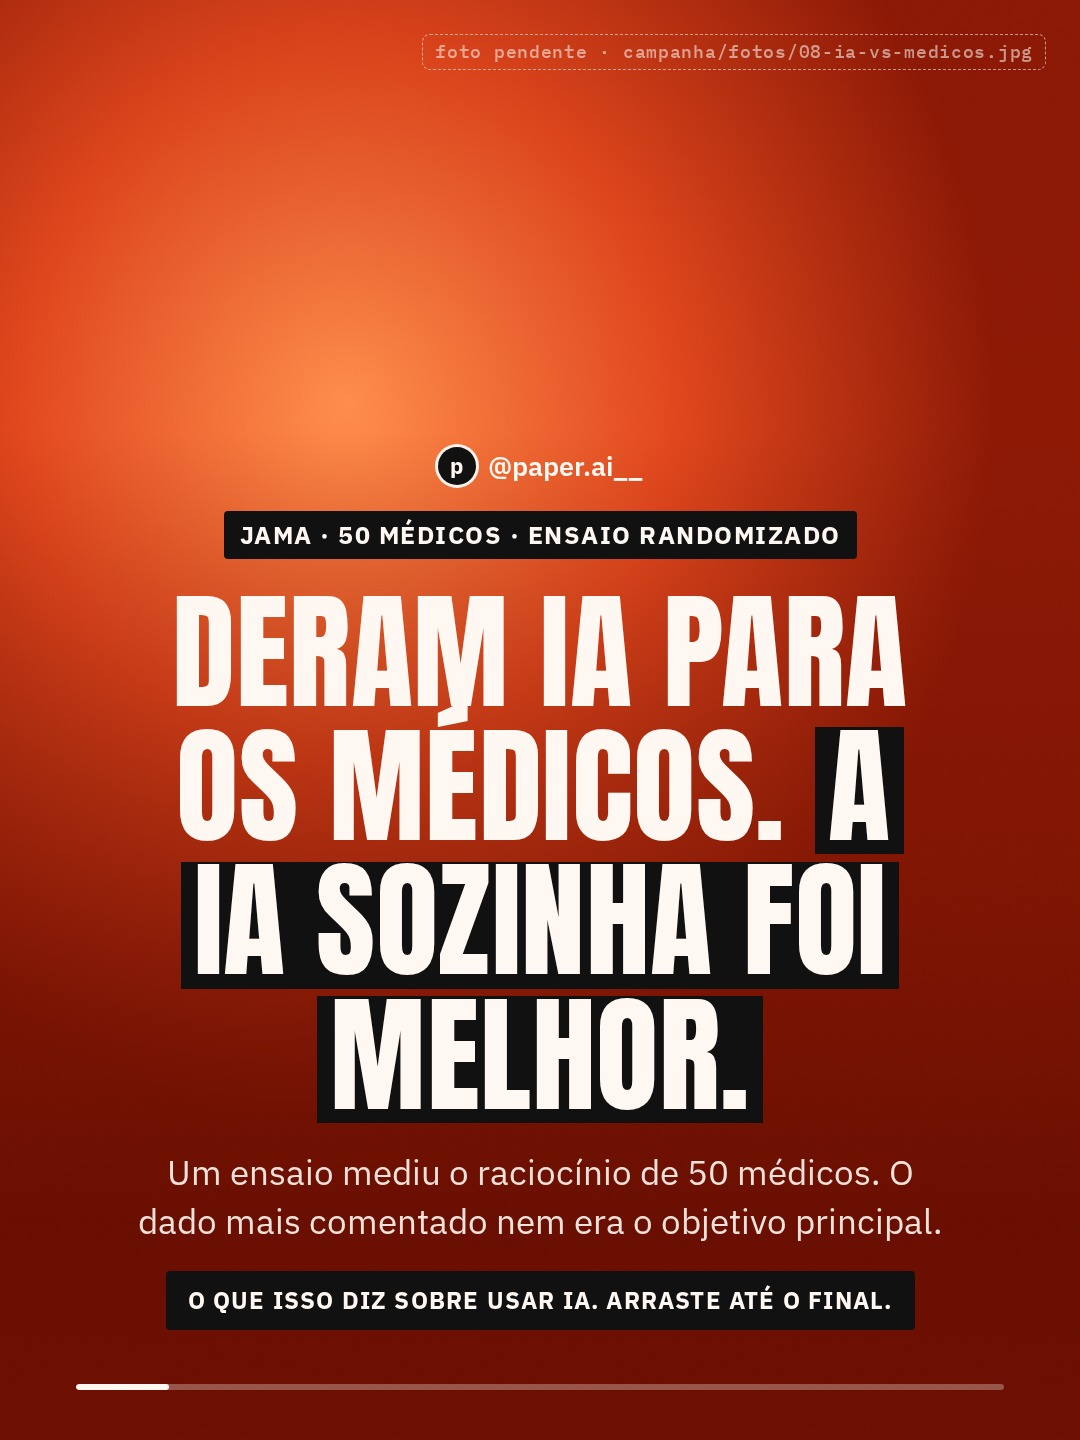
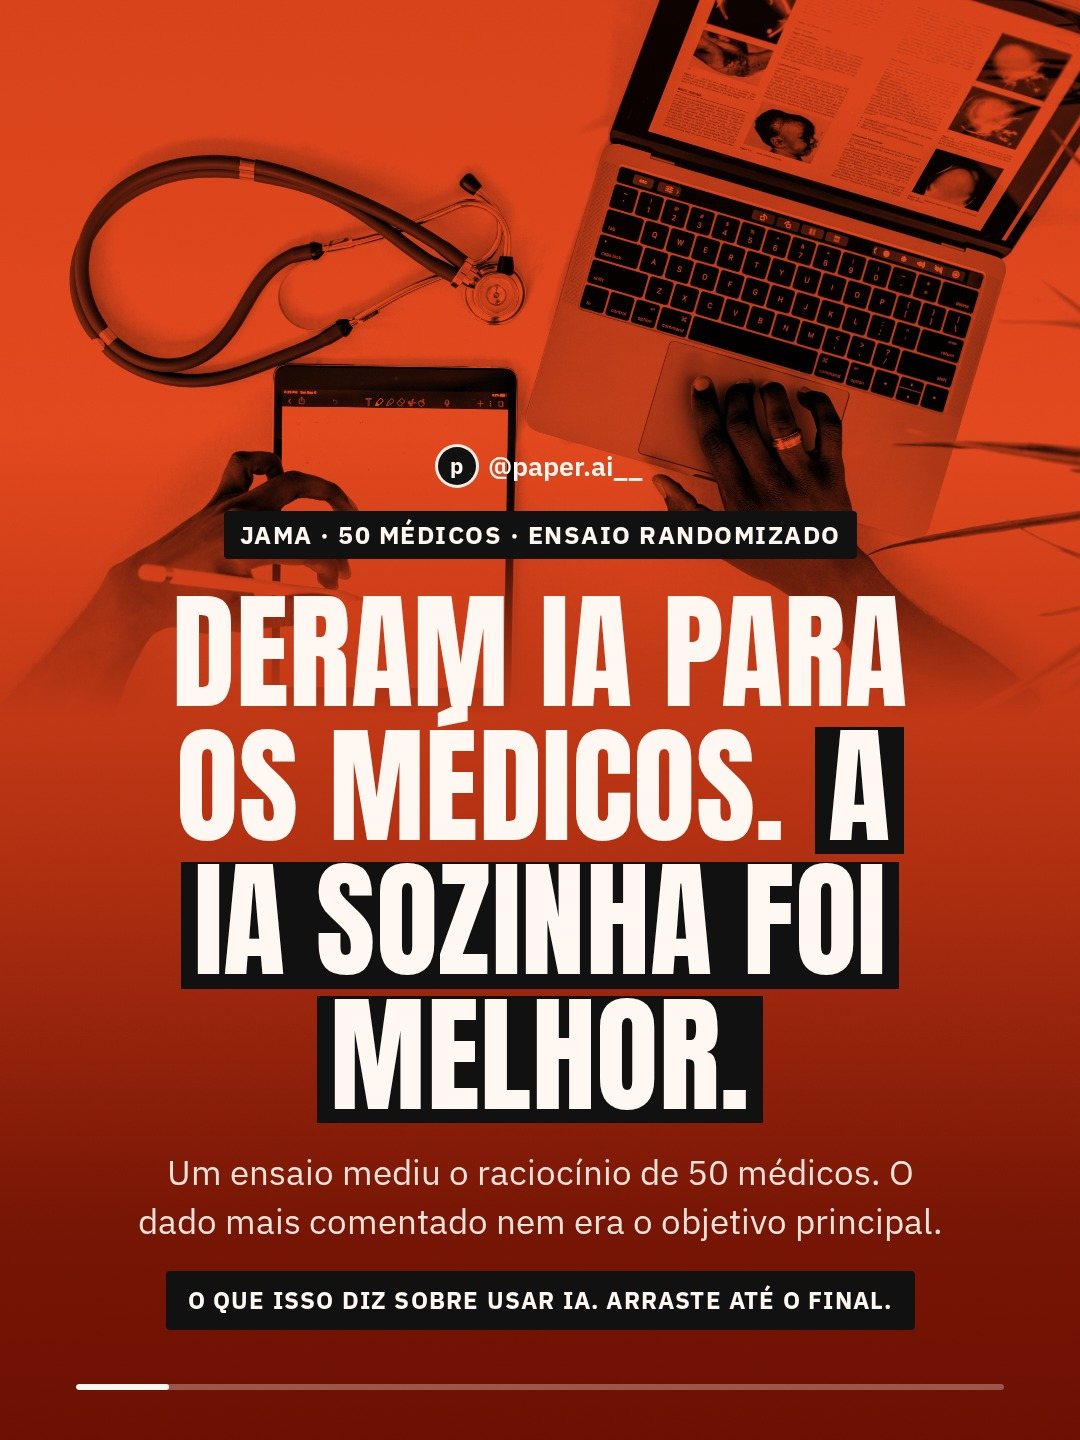
Foto na capa do 08 (IA contra médicos): campanha completa
Claude-Session: https://claude.ai/code/session_01G1NFw6D6tMQ9uSb7ZFrUDh

diff --git a/campanha/fotos/LISTA.md b/campanha/fotos/LISTA.md
@@ -16,7 +16,7 @@ Use fotos com licença para uso comercial (Unsplash, Pexels, banco de imagens pa
 | `06-dez-mil-passos.jpg` | claro | white sneakers pale concrete morning shadow, minimal walking feet light street, sneakers white floor long shadow | Tênis claros num chão de cimento ou piso branco, sombra comprida de manhã. Pouca cor, muito espaço vazio. | ✅ ok |
 | `07-bets.jpg` | escuro | slot machines dark casino empty chairs | Caça-níqueis acesos num cassino escuro, cadeiras vazias na frente. A mesma foto aparece desfocada no slide 6. | ✅ ok |
 | `07-bets-2.jpg` | escuro | slot machines dark casino (a mesma foto da capa) | A foto da capa, aproximada nas luzes do alto e desfocada. Pode ser o mesmo arquivo. | ✅ ok |
-| `08-ia-vs-medicos.jpg` | vibrante | doctor hands laptop night, stethoscope keyboard dramatic light, physician desk screen glow | Mãos de médico (jaleco ou estetoscópio à vista) sobre um notebook, luz da tela. Sem rosto e sem marca de software. | ⏳ pendente |
+| `08-ia-vs-medicos.jpg` | vibrante | doctor hands laptop night, stethoscope keyboard dramatic light, physician desk screen glow | Mãos de médico (jaleco ou estetoscópio à vista) sobre um notebook, luz da tela. Sem rosto e sem marca de software. | ✅ ok |
 | `09-genes-vs-estilo-de-vida.jpg` | claro | old family photos hands pale table, vintage family portrait light linen, hands holding old photograph soft light | Mãos segurando fotos antigas de família sobre uma mesa clara, luz natural. Tons pálidos, rostos das fotos sem nitidez. | ✅ ok |
 | `10-alcool.jpg` | escuro | red wine glass dark moody table, wine glass side light black background, half empty wine glass shadow | Taça de vinho tinto sobre mesa escura, luz lateral dura, fundo quase preto. Sem garrafa com rótulo. | ✅ ok |
 | `11-ultraprocessados.jpg` | vibrante | snacks packaging flat lay orange background, chips soda cookies overhead hard light, junk food red background | Pacotes de salgadinho, refrigerante e biscoito vistos de cima, luz dura, fundo laranja ou vermelho. Sem marca legível. | ✅ ok |

diff --git a/campanha/fotos/CREDITOS.md b/campanha/fotos/CREDITOS.md
@@ -11,6 +11,7 @@ Fotos baixadas pelo dono da página a partir da lista em [`LINKS.md`](LINKS.md).
 | `05-celular-na-escola.jpg` | [Pexels 8456146](https://www.pexels.com/photo/back-view-shot-of-students-walking-on-a-hallway-while-having-a-conversation-8456146/) |
 | `06-dez-mil-passos.jpg` | [Pexels 29607484](https://www.pexels.com/photo/minimalist-footwear-and-geometric-shadows-art-29607484/) |
 | `07-bets.jpg` e `07-bets-2.jpg` | [Pexels 3021120](https://www.pexels.com/photo/slot-machines-3021120/) (a mesma foto; no slide 6 ela aparece aproximada e desfocada) |
+| `08-ia-vs-medicos.jpg` | [Pexels 5327916](https://www.pexels.com/photo/a-medical-person-using-a-laptop-for-research-5327916/) |
 | `09-genes-vs-estilo-de-vida.jpg` | [Pexels 7545238](https://www.pexels.com/photo/a-person-s-hands-holding-vintage-photographs-7545238/) |
 | `10-alcool.jpg` | [Pexels 312080](https://www.pexels.com/photo/alcohol-bar-beverage-black-background-312080/) |
 | `11-ultraprocessados.jpg` | [Pexels 479628](https://www.pexels.com/photo/potato-chips-479628/) |
@@ -25,4 +26,3 @@ Fotos baixadas pelo dono da página a partir da lista em [`LINKS.md`](LINKS.md).
 | `19-aperto-de-mao.jpg` | [Pexels 7298869](https://www.pexels.com/photo/a-clenched-fist-7298869/) |
 | `20-um-minuto.jpg` | [Unsplash Or4_-uT-S5c](https://unsplash.com/photos/a-black-and-white-photo-of-a-man-running-up-a-flight-of-stairs-Or4_-uT-S5c) |
 
-Pendente: `08-ia-vs-medicos.jpg` (a foto enviada não abriu).

diff --git a/campanha/README.md b/campanha/README.md
@@ -2,7 +2,7 @@
 
 Posts feitos para alcance e envios: gancho num assunto que o Brasil está discutindo, uma história contada slide a slide e um grande estudo científico explicando o fato, sem inventar nada. Cada carrossel termina mostrando o que o estudo **não** permite dizer, que é a mesma regra dos prompts da Biblioteca paper.ai__.
 
-**Os 20 estão prontos em [`exports/campanha/`](../exports/campanha/README.md)**, com slides em JPG (3:4), legenda e texto alternativo. Todas as capas já têm foto, menos a do 08 (IA contra médicos). Créditos em [`fotos/CREDITOS.md`](fotos/CREDITOS.md).
+**Os 20 estão prontos em [`exports/campanha/`](../exports/campanha/README.md)**, com slides em JPG (3:4), legenda e texto alternativo. Todas as capas já têm foto. Créditos em [`fotos/CREDITOS.md`](fotos/CREDITOS.md).
 
 ## Os 20 carrosséis
 

diff --git a/exports/campanha/README.md b/exports/campanha/README.md
@@ -81,7 +81,7 @@ Fotos: veja a lista do que buscar em [`campanha/fotos/LISTA.md`](../../campanha/
 <a id="08-ia-vs-medicos"></a>
 ## Deram IA para os médicos. A IA sozinha foi melhor.
 
-**vibrante** · Médicos usando IA no dia a dia do consultório e do plantão · Semana 2 · quarta · 10 slides · 1 foto(s) pendente(s) · [slides](08-ia-vs-medicos/) · [legenda](08-ia-vs-medicos/legenda.txt) · [alt text](08-ia-vs-medicos/alt-text.txt)
+**vibrante** · Médicos usando IA no dia a dia do consultório e do plantão · Semana 2 · quarta · 10 slides · [slides](08-ia-vs-medicos/) · [legenda](08-ia-vs-medicos/legenda.txt) · [alt text](08-ia-vs-medicos/alt-text.txt)
 
 ![Deram IA para os médicos. A IA sozinha foi melhor.](08-ia-vs-medicos/_prancha.jpg)
 
